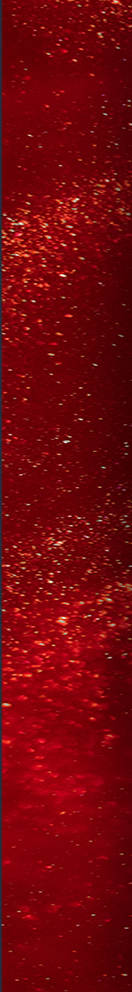
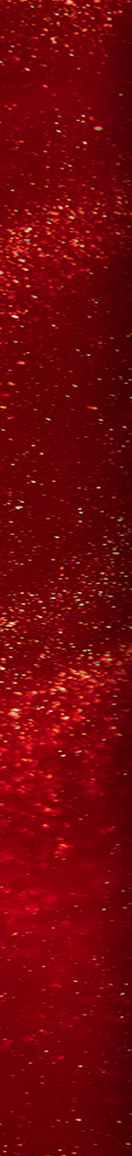
init opt2

diff --git a/source/opt2/index_en.html b/source/opt2/index_en.html
@@ -98,10 +98,10 @@
               <tr>
                 <td align="left" valign="top" style="padding: 0; margin: 0; border: none; line-height: 1.3; font-size: 16px; font-family: Arial, Helvetica, sans-serif !important;"><img src="image/chs_box_2.jpg" width="700" height="auto" alt="" style="display: block"/></td>
               </tr>
-              <tr>
+			  <tr>
                 <td align="left" valign="top" style="padding: 0; margin: 0; border: none; line-height: 1.3; font-size: 16px; font-family: Arial, Helvetica, sans-serif !important;"><table width="100%" border="0" cellpadding="0" cellspacing="0" class="chs_body">
                     <tr>
-                      <td width="66" align="left" valign="top" style="padding: 0; margin: 0; border: none; line-height: 1.3; font-size: 16px; font-family: Arial, Helvetica, sans-serif !important;"><img src="image/chs_box_4.jpg" width="66" height="520" alt="" style="display: block"/></td>
+                      <td width="66" align="left" valign="top" style="padding: 0; margin: 0; border: none; line-height: 1.3; font-size: 16px; font-family: Arial, Helvetica, sans-serif !important;"><img src="image/chs_box_4.jpg" width="66" height="580" alt="" style="display: block"/></td>
                       <td align="left" valign="middle" style="padding: 0; margin: 0; border: 8px solid #cf3939; line-height: 1.3; font-size: 16px; font-family: Arial, Helvetica, sans-serif !important;"><table width="100%" border="0" cellpadding="0" cellspacing="0" class="chs_body">
                           <tr>
                             <td align="left" valign="top" style="padding: 0; margin: 0; border: none; line-height: 1.3; font-size: 14px; font-family: Arial, Helvetica, sans-serif !important;"><table width="100%" border="0" cellpadding="0" cellspacing="0" class="chs_body">
@@ -110,27 +110,15 @@
                                   <td align="left" valign="top" style="padding: 0; margin: 0; border: none; line-height: 1.3; font-size: 14px; font-family: Arial, Helvetica, sans-serif !important;">For our Premier customers, this celebration carries an even deeper meaning. It has been 15 years since HSBC Premier was introduced in Vietnam, and your trust and partnership have been at the heart of our journey. Together, we have built lasting connections across borders, supported families, and opened doors to global opportunities.</td>
 									<td width="28" align="left" valign="top" style="padding: 0; margin: 0; border: none; line-height: 1.3; font-size: 16px; font-family: Arial, Helvetica, sans-serif !important;"><img src="image/dash.png" width="28" height="auto" alt="" style="display: block"/></td>
                                 </tr>
-                              </table></td>
-                          </tr>
-                          <tr>
-                            <td align="left" valign="top" style="padding: 15px 0 0 0; margin: 0; border: none; line-height: 1.3; font-size: 16px; font-family: Arial, Helvetica, sans-serif !important;"><table width="100%" border="0" cellpadding="0" cellspacing="0" class="chs_body">
                                 <tr>
-                                  <td align="left" valign="bottom" style="padding: 0; margin: 0; border: none; line-height: 1.3; font-size: 16px; font-family: Arial, Helvetica, sans-serif !important;"><table width="100%" border="0" cellpadding="0" cellspacing="0" class="chs_body">
-                                      <tr>
-                                        <td width="28" align="left" valign="top" bgcolor="#920417" style="padding: 0; margin: 0; border: none; line-height: 1.3; font-size: 16px; font-family: Arial, Helvetica, sans-serif !important;"><img src="image/dash.png" width="28" height="144" alt="" style="display: block"/></td>
-                                        <td align="left" valign="middle" bgcolor="#920417" style="padding: 0; margin: 0; border: none; line-height: 1.3; font-size: 16px; font-family: Arial, Helvetica, sans-serif !important; color: #FFFFFF;"><table width="100%" border="0" cellpadding="0" cellspacing="0" class="chs_body">
-                                            <tr>
-                                              <td align="left" valign="middle" style="padding: 0; margin: 0; border: none; line-height: 1.3; font-size: 14px; font-family: Arial, Helvetica, sans-serif !important; color: #FFFFFF;">As a token of our heartfelt appreciation, we are delighted to present you with an <strong>exclusive Premier appreciation gift</strong>, which will be delivered to you soon by your dedicated Relationship Manager.</td>
-                                            </tr>
-                                          </table></td>
-                                      </tr>
-                                    </table></td>
-                                  <td width="254" align="left" valign="top" style="padding: 0; margin: 0; border: none; line-height: 1.3; font-size: 16px; font-family: Arial, Helvetica, sans-serif !important;"><img src="image/chs_box_6.jpg" width="254" height="auto" alt="" style="display: block"/></td>
+                                  <td align="left" valign="top" style="padding: 0; margin: 0; border: none; line-height: 1.3; font-size: 16px; font-family: Arial, Helvetica, sans-serif !important;">&nbsp;</td>
+                                  <td align="left" valign="top" style="padding: 10px 0 0 0; margin: 0; border: none; line-height: 1.3; font-size: 14px; font-family: Arial, Helvetica, sans-serif !important;">As a token of our heartfelt appreciation, we are delighted to present you with an <strong>exclusive Premier appreciation gift</strong>, which will be delivered to you soon by your dedicated Relationship Manager.</td>
+                                  <td align="left" valign="top" style="padding: 0; margin: 0; border: none; line-height: 1.3; font-size: 16px; font-family: Arial, Helvetica, sans-serif !important;">&nbsp;</td>
                                 </tr>
                               </table></td>
                           </tr>
-                          <tr>
-                            <td align="left" valign="top" style="padding: 15px 28px 0 28px; margin: 0; border: none; line-height: 1.3; font-size: 14px; font-family: Arial, Helvetica, sans-serif !important;"><table width="100%" border="0" cellpadding="0" cellspacing="0" class="chs_body">
+						  <tr>
+                            <td align="left" valign="top" style="padding: 10px 28px 0 28px; margin: 0; border: none; line-height: 1.3; font-size: 14px; font-family: Arial, Helvetica, sans-serif !important;"><table width="100%" border="0" cellpadding="0" cellspacing="0" class="chs_body">
                                 <tr>
                                   <td width="10" align="left" valign="top" style="padding: 0; margin: 0; border: none; line-height: 1.3; font-size: 14px; font-family: Arial, Helvetica, sans-serif !important;">&bull;</td>
                                   <td align="left" valign="top" style="padding: 0; margin: 0; border: none; line-height: 1.3; font-size: 14px; font-family: Arial, Helvetica, sans-serif !important;">Name: &lt; RM Name&gt;</td>
@@ -140,6 +128,9 @@
                                   <td align="left" valign="top" style="padding: 0; margin: 0; border: none; line-height: 1.3; font-size: 14px; font-family: Arial, Helvetica, sans-serif !important;">Email: &lt; RM email &gt;</td>
                                 </tr>
                               </table></td>
+                          </tr>
+                          <tr>
+                            <td align="left" valign="top" style="padding: 10px 0 0 0; margin: 0; border: none; line-height: 1.3; font-size: 16px; font-family: Arial, Helvetica, sans-serif !important;"><img src="image/chs_box_6.jpg" width="554" height="auto" alt="" style="display: block"/></td>
                           </tr>
 						  <tr>
                             <td align="left" valign="top" style="padding: 10px 0 0 0; margin: 0; border: none; line-height: 1.3; font-size: 14px; font-family: Arial, Helvetica, sans-serif !important;"><table width="100%" border="0" cellpadding="0" cellspacing="0" class="chs_body">
@@ -151,7 +142,7 @@
                               </table></td>
                           </tr>
                         </table></td>
-                      <td width="64" align="left" valign="top" style="padding: 0; margin: 0; border: none; line-height: 1.3; font-size: 16px; font-family: Arial, Helvetica, sans-serif !important;"><img src="image/chs_box_5.jpg" width="64" height="520" alt="" style="display: block"/></td>
+                      <td width="64" align="left" valign="top" style="padding: 0; margin: 0; border: none; line-height: 1.3; font-size: 16px; font-family: Arial, Helvetica, sans-serif !important;"><img src="image/chs_box_5.jpg" width="64" height="580" alt="" style="display: block"/></td>
                     </tr>
                   </table></td>
               </tr>

diff --git a/source/opt2/index_vn.html b/source/opt2/index_vn.html
@@ -100,7 +100,7 @@
               <tr>
                 <td align="left" valign="top" style="padding: 0; margin: 0; border: none; line-height: 1.3; font-size: 16px; font-family: Arial, Helvetica, sans-serif !important;"><table width="100%" border="0" cellpadding="0" cellspacing="0" class="chs_body">
                     <tr>
-                      <td width="66" align="left" valign="top" style="padding: 0; margin: 0; border: none; line-height: 1.3; font-size: 16px; font-family: Arial, Helvetica, sans-serif !important;"><img src="image/chs_box_4.jpg" width="66" height="520" alt="" style="display: block"/></td>
+                      <td width="66" align="left" valign="top" style="padding: 0; margin: 0; border: none; line-height: 1.3; font-size: 16px; font-family: Arial, Helvetica, sans-serif !important;"><img src="image/chs_box_4.jpg" width="66" height="580" alt="" style="display: block"/></td>
                       <td align="left" valign="middle" style="padding: 0; margin: 0; border: 8px solid #cf3939; line-height: 1.3; font-size: 16px; font-family: Arial, Helvetica, sans-serif !important;"><table width="100%" border="0" cellpadding="0" cellspacing="0" class="chs_body">
                           <tr>
                             <td align="left" valign="top" style="padding: 0; margin: 0; border: none; line-height: 1.3; font-size: 14px; font-family: Arial, Helvetica, sans-serif !important;"><table width="100%" border="0" cellpadding="0" cellspacing="0" class="chs_body">
@@ -109,27 +109,15 @@
                                   <td align="left" valign="top" style="padding: 0; margin: 0; border: none; line-height: 1.3; font-size: 14px; font-family: Arial, Helvetica, sans-serif !important;">Đặc biệt với Quý khách Premier, dấu mốc này càng thêm ý nghĩa sâu sắc. HSBC Premier đã chính thức ra mắt tại Việt Nam 15 năm trước, và chính sự tin tưởng, đồng hành của Quý khách đã vun đắp hành trình của chúng tôi. Cùng nhau, chúng ta đã kiến tạo những kết nối bền bỉ toàn cầu, hỗ trợ các gia đình và mở ra nhiều cơ hội quốc tế.</td>
 									<td width="28" align="left" valign="top" style="padding: 0; margin: 0; border: none; line-height: 1.3; font-size: 16px; font-family: Arial, Helvetica, sans-serif !important;"><img src="image/dash.png" width="28" height="auto" alt="" style="display: block"/></td>
                                 </tr>
-                              </table></td>
-                          </tr>
-                          <tr>
-                            <td align="left" valign="top" style="padding: 15px 0 0 0; margin: 0; border: none; line-height: 1.3; font-size: 16px; font-family: Arial, Helvetica, sans-serif !important;"><table width="100%" border="0" cellpadding="0" cellspacing="0" class="chs_body">
                                 <tr>
-                                  <td align="left" valign="bottom" style="padding: 0; margin: 0; border: none; line-height: 1.3; font-size: 16px; font-family: Arial, Helvetica, sans-serif !important;"><table width="100%" border="0" cellpadding="0" cellspacing="0" class="chs_body">
-                                      <tr>
-                                        <td width="28" align="left" valign="top" bgcolor="#920417" style="padding: 0; margin: 0; border: none; line-height: 1.3; font-size: 16px; font-family: Arial, Helvetica, sans-serif !important;"><img src="image/dash.png" width="28" height="144" alt="" style="display: block"/></td>
-                                        <td align="left" valign="middle" bgcolor="#920417" style="padding: 0; margin: 0; border: none; line-height: 1.3; font-size: 16px; font-family: Arial, Helvetica, sans-serif !important; color: #FFFFFF;"><table width="100%" border="0" cellpadding="0" cellspacing="0" class="chs_body">
-                                            <tr>
-                                              <td align="left" valign="middle" style="padding: 0; margin: 0; border: none; line-height: 1.3; font-size: 14px; font-family: Arial, Helvetica, sans-serif !important; color: #FFFFFF;">Thay cho lời cảm kích chân thành, chúng tôi hân hạnh gửi đến Quý khách <strong>món quà tri ân đặc biệt từ Premier</strong>, sẽ được Giám đốc Quan hệ  Khách hàng của chúng tôi chuyển đến Quý khách.</td>
-                                            </tr>
-                                          </table></td>
-                                      </tr>
-                                    </table></td>
-                                  <td width="254" align="left" valign="top" style="padding: 0; margin: 0; border: none; line-height: 1.3; font-size: 16px; font-family: Arial, Helvetica, sans-serif !important;"><img src="image/chs_box_6.jpg" width="254" height="auto" alt="" style="display: block"/></td>
+                                  <td align="left" valign="top" style="padding: 0; margin: 0; border: none; line-height: 1.3; font-size: 16px; font-family: Arial, Helvetica, sans-serif !important;">&nbsp;</td>
+                                  <td align="left" valign="top" style="padding: 10px 0 0 0; margin: 0; border: none; line-height: 1.3; font-size: 14px; font-family: Arial, Helvetica, sans-serif !important;">Thay cho lời cảm kích chân thành, chúng tôi hân hạnh gửi đến Quý khách <strong>món quà tri ân đặc biệt từ Premier</strong>, sẽ được Giám đốc Quan hệ Khách hàng của chúng tôi chuyển đến Quý khách.</td>
+                                  <td align="left" valign="top" style="padding: 0; margin: 0; border: none; line-height: 1.3; font-size: 16px; font-family: Arial, Helvetica, sans-serif !important;">&nbsp;</td>
                                 </tr>
                               </table></td>
                           </tr>
-                          <tr>
-                            <td align="left" valign="top" style="padding: 15px 28px 0 28px; margin: 0; border: none; line-height: 1.3; font-size: 14px; font-family: Arial, Helvetica, sans-serif !important;"><table width="100%" border="0" cellpadding="0" cellspacing="0" class="chs_body">
+						  <tr>
+                            <td align="left" valign="top" style="padding: 10px 28px 0 28px; margin: 0; border: none; line-height: 1.3; font-size: 14px; font-family: Arial, Helvetica, sans-serif !important;"><table width="100%" border="0" cellpadding="0" cellspacing="0" class="chs_body">
                                 <tr>
                                   <td width="10" align="left" valign="top" style="padding: 0; margin: 0; border: none; line-height: 1.3; font-size: 14px; font-family: Arial, Helvetica, sans-serif !important;">&bull;</td>
                                   <td align="left" valign="top" style="padding: 0; margin: 0; border: none; line-height: 1.3; font-size: 14px; font-family: Arial, Helvetica, sans-serif !important;">Tên: &lt; RM Name&gt;</td>
@@ -139,6 +127,9 @@
                                   <td align="left" valign="top" style="padding: 0; margin: 0; border: none; line-height: 1.3; font-size: 14px; font-family: Arial, Helvetica, sans-serif !important;">Email: &lt; RM email &gt;</td>
                                 </tr>
                               </table></td>
+                          </tr>
+                          <tr>
+                            <td align="left" valign="top" style="padding: 10px 0 0 0; margin: 0; border: none; line-height: 1.3; font-size: 16px; font-family: Arial, Helvetica, sans-serif !important;"><img src="image/chs_box_6.jpg" width="554" height="auto" alt="" style="display: block"/></td>
                           </tr>
 						  <tr>
                             <td align="left" valign="top" style="padding: 10px 0 0 0; margin: 0; border: none; line-height: 1.3; font-size: 14px; font-family: Arial, Helvetica, sans-serif !important;"><table width="100%" border="0" cellpadding="0" cellspacing="0" class="chs_body">
@@ -150,7 +141,7 @@
                               </table></td>
                           </tr>
                         </table></td>
-                      <td width="64" align="left" valign="top" style="padding: 0; margin: 0; border: none; line-height: 1.3; font-size: 16px; font-family: Arial, Helvetica, sans-serif !important;"><img src="image/chs_box_5.jpg" width="64" height="520" alt="" style="display: block"/></td>
+                      <td width="64" align="left" valign="top" style="padding: 0; margin: 0; border: none; line-height: 1.3; font-size: 16px; font-family: Arial, Helvetica, sans-serif !important;"><img src="image/chs_box_5.jpg" width="64" height="580" alt="" style="display: block"/></td>
                     </tr>
                   </table></td>
               </tr>

diff --git a/source/opt1/index_en.html b/source/opt1/index_en.html
@@ -113,7 +113,7 @@
                               </table></td>
                           </tr>
                           <tr>
-                            <td align="left" valign="top" style="padding: 15px 0 0 0; margin: 0; border: none; line-height: 1.3; font-size: 16px; font-family: Arial, Helvetica, sans-serif !important;"><table width="100%" border="0" cellpadding="0" cellspacing="0" class="chs_body">
+                            <td align="left" valign="top" style="padding: 10px 0 0 0; margin: 0; border: none; line-height: 1.3; font-size: 16px; font-family: Arial, Helvetica, sans-serif !important;"><table width="100%" border="0" cellpadding="0" cellspacing="0" class="chs_body">
                                 <tr>
                                   <td align="left" valign="bottom" style="padding: 0; margin: 0; border: none; line-height: 1.3; font-size: 16px; font-family: Arial, Helvetica, sans-serif !important;"><table width="100%" border="0" cellpadding="0" cellspacing="0" class="chs_body">
                                       <tr>
@@ -130,7 +130,7 @@
                               </table></td>
                           </tr>
                           <tr>
-                            <td align="left" valign="top" style="padding: 15px 28px 0 28px; margin: 0; border: none; line-height: 1.3; font-size: 14px; font-family: Arial, Helvetica, sans-serif !important;"><table width="100%" border="0" cellpadding="0" cellspacing="0" class="chs_body">
+                            <td align="left" valign="top" style="padding: 10px 28px 0 28px; margin: 0; border: none; line-height: 1.3; font-size: 14px; font-family: Arial, Helvetica, sans-serif !important;"><table width="100%" border="0" cellpadding="0" cellspacing="0" class="chs_body">
                                 <tr>
                                   <td width="10" align="left" valign="top" style="padding: 0; margin: 0; border: none; line-height: 1.3; font-size: 14px; font-family: Arial, Helvetica, sans-serif !important;">&bull;</td>
                                   <td align="left" valign="top" style="padding: 0; margin: 0; border: none; line-height: 1.3; font-size: 14px; font-family: Arial, Helvetica, sans-serif !important;">Name: &lt; RM Name&gt;</td>

diff --git a/source/opt1/index_vn.html b/source/opt1/index_vn.html
@@ -112,7 +112,7 @@
                               </table></td>
                           </tr>
                           <tr>
-                            <td align="left" valign="top" style="padding: 15px 0 0 0; margin: 0; border: none; line-height: 1.3; font-size: 16px; font-family: Arial, Helvetica, sans-serif !important;"><table width="100%" border="0" cellpadding="0" cellspacing="0" class="chs_body">
+                            <td align="left" valign="top" style="padding: 10px 0 0 0; margin: 0; border: none; line-height: 1.3; font-size: 16px; font-family: Arial, Helvetica, sans-serif !important;"><table width="100%" border="0" cellpadding="0" cellspacing="0" class="chs_body">
                                 <tr>
                                   <td align="left" valign="bottom" style="padding: 0; margin: 0; border: none; line-height: 1.3; font-size: 16px; font-family: Arial, Helvetica, sans-serif !important;"><table width="100%" border="0" cellpadding="0" cellspacing="0" class="chs_body">
                                       <tr>
@@ -129,7 +129,7 @@
                               </table></td>
                           </tr>
                           <tr>
-                            <td align="left" valign="top" style="padding: 15px 28px 0 28px; margin: 0; border: none; line-height: 1.3; font-size: 14px; font-family: Arial, Helvetica, sans-serif !important;"><table width="100%" border="0" cellpadding="0" cellspacing="0" class="chs_body">
+                            <td align="left" valign="top" style="padding: 10px 28px 0 28px; margin: 0; border: none; line-height: 1.3; font-size: 14px; font-family: Arial, Helvetica, sans-serif !important;"><table width="100%" border="0" cellpadding="0" cellspacing="0" class="chs_body">
                                 <tr>
                                   <td width="10" align="left" valign="top" style="padding: 0; margin: 0; border: none; line-height: 1.3; font-size: 14px; font-family: Arial, Helvetica, sans-serif !important;">&bull;</td>
                                   <td align="left" valign="top" style="padding: 0; margin: 0; border: none; line-height: 1.3; font-size: 14px; font-family: Arial, Helvetica, sans-serif !important;">Tên: &lt; RM Name&gt;</td>
